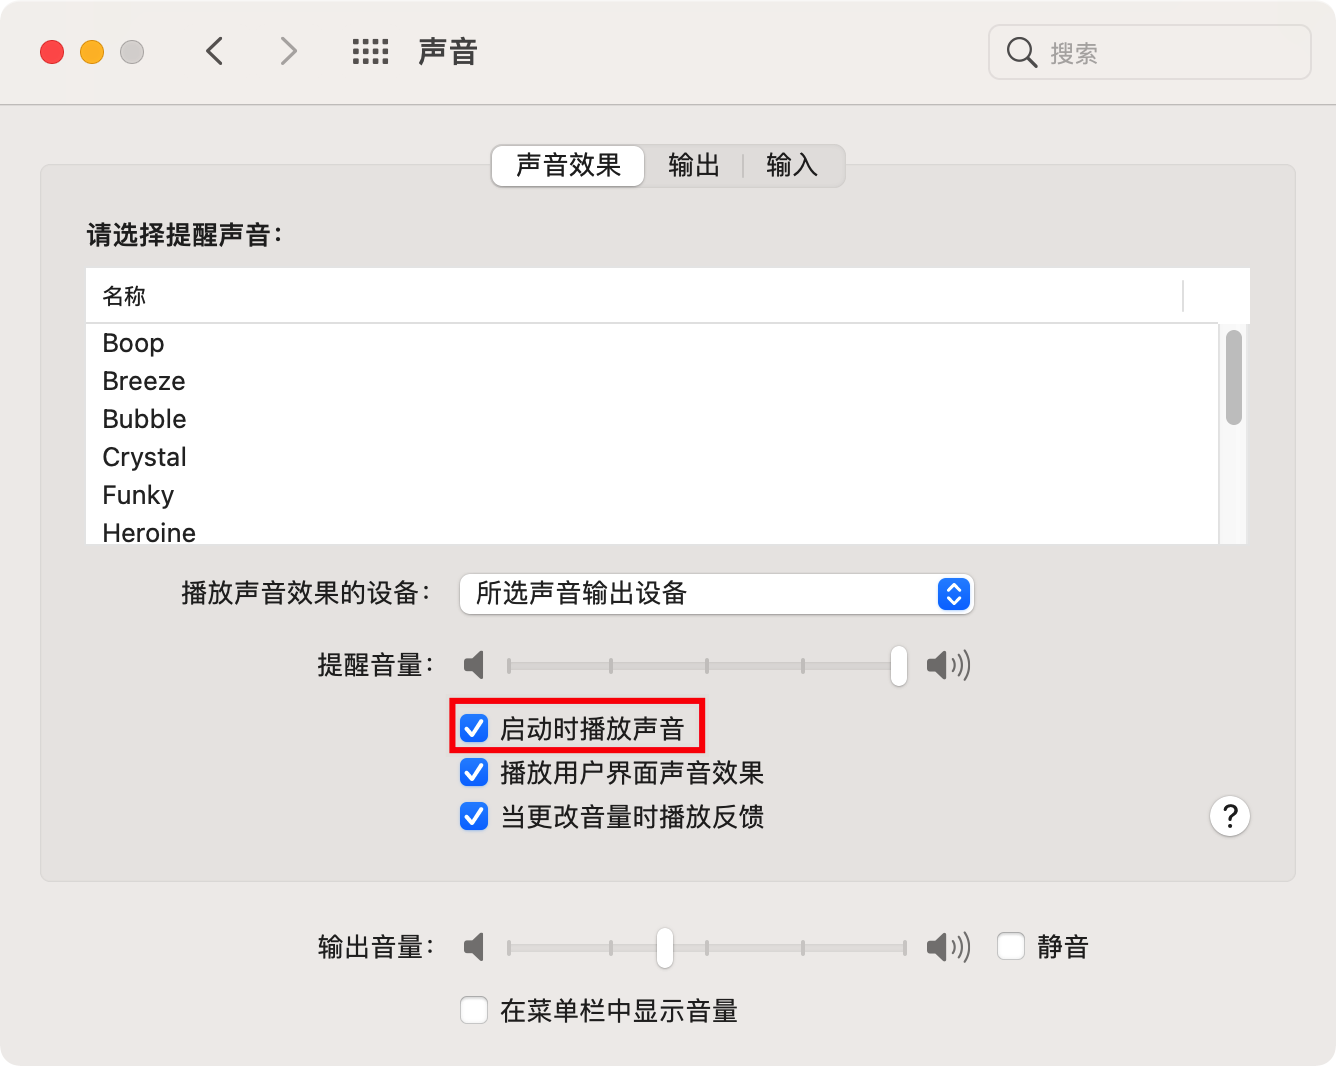
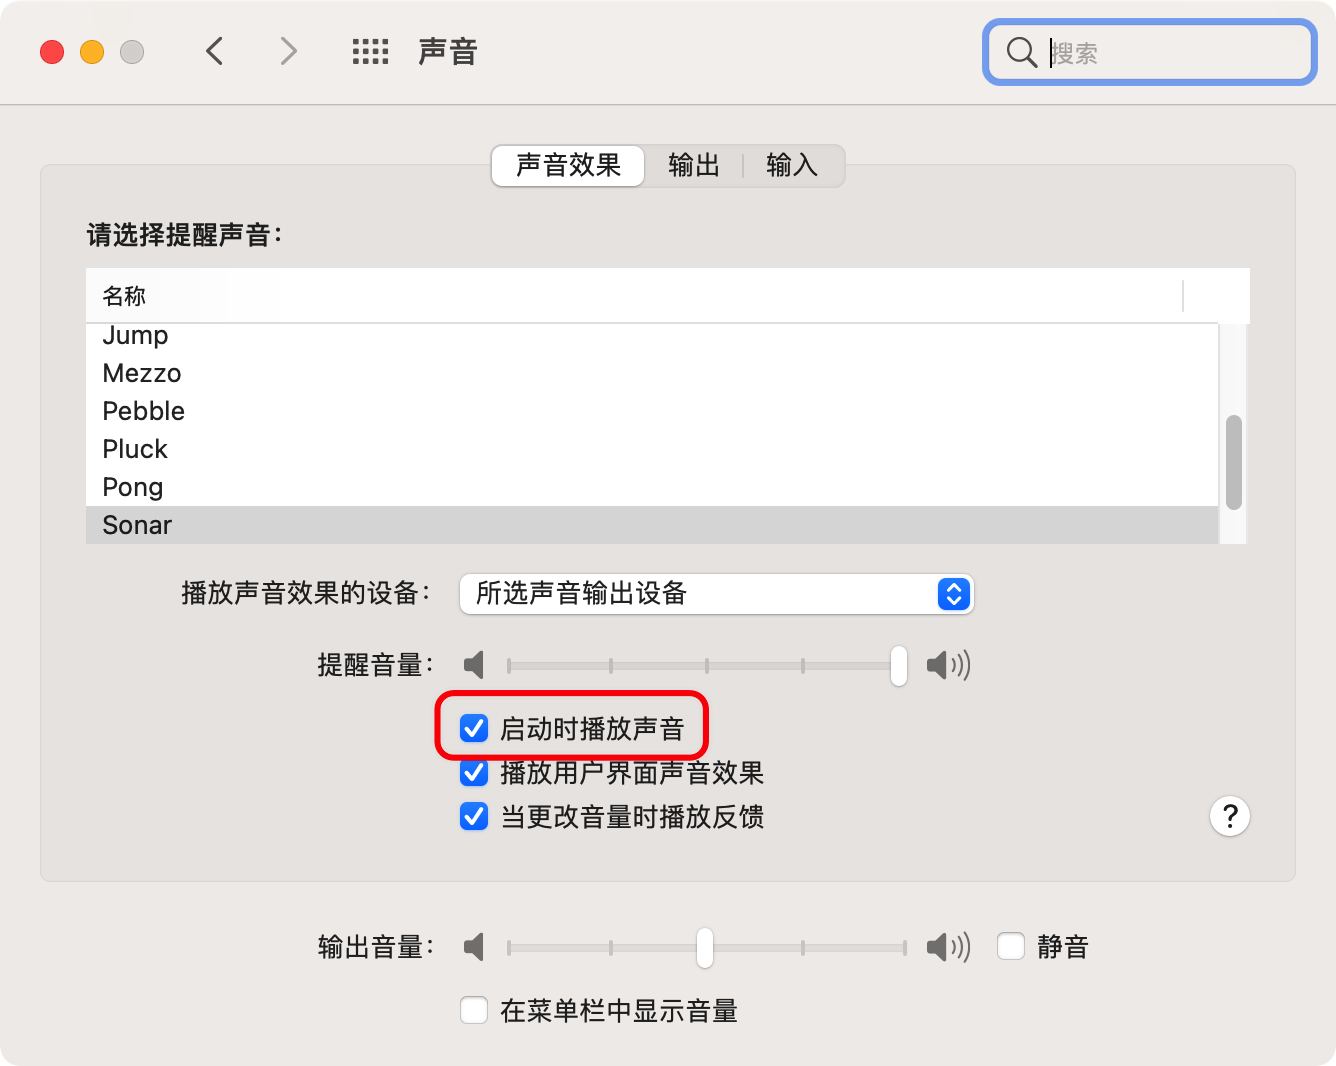
Optimize

diff --git a/README.md b/README.md
@@ -34,8 +34,13 @@
 
     ##### 注：
 
-    -  **`新版OC 0.6.4已经支持安装最新版macOS Big Sur。`**
+    - **`新版OC 0.6.4已经支持安装最新版macOS Big Sur。`**
+
     - **编辑config.plist时推荐使用[`ProperTree`](https://github.com/corpnewt/ProperTree)。** Xcode在编辑DATA类型时会有问题；OpenCore Configurator更新不及时且不时会有BUG，可能会损换文件结构；不推荐使用。
+
+    - 2020.12.9  得益于`OC 0.6.4`版本对于macOS新特性的支持，现在可以在`设置--声音--启动时播放声音`选择是否在启动时播放Mac灵魂的`Duang~`
+
+      ![Audio](IMG/Audio.png)
 
 - ### 安装前准备
 

diff --git a/README-EN.md b/README-EN.md
@@ -21,6 +21,8 @@
 
 <img src="IMG/USB.png" alt="USB" style="zoom: 33%;" />
 
+![Audio](IMG/Audio.png)
+
 ## Overview
 
 - `OpenCore`   OpenCore' s version is 0.6.4, It's base on the [Acidanthera](https://github.com/acidanthera)'s offical [Release](https://github.com/acidanthera/OpenCorePkg/releases), theoretically I will update to the latest version of OC in a week after it is released.
